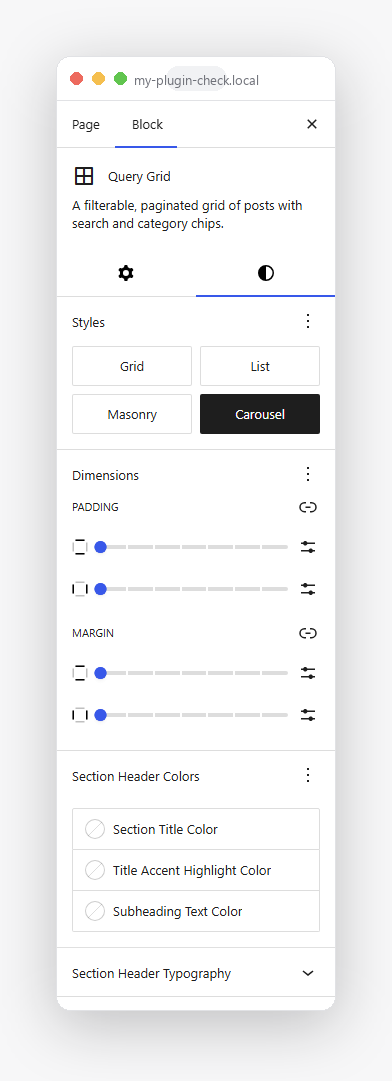
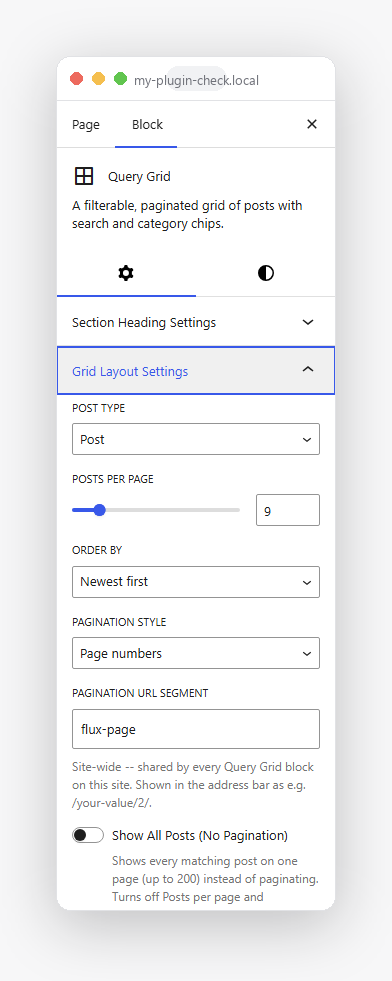
Fix missing UI in screenshots, add backend Settings panels for all 3 blocks
- screenshot-6 (Load more): height-crop was cutting off the Load More
  button itself, same root cause as the earlier pagination fix
- screenshot-7 (Magazine): enabled the Explore More button on the
  demo-magazine page so the feature is actually visible somewhere
- screenshot-15 (Query Grid editor panel) was capturing the Styles
  tab (layout picker) instead of the Settings tab (post type,
  pagination, columns) -- recaptured on the correct tab
- Added screenshot-16/17: Content Showcase's and Notification
  Banner's editor Settings panels, with a relevant panel expanded
  instead of a wall of collapsed accordion headers
- Documented 'works with any post type' directly under Query Grid
  and Content Showcase in both readme.txt and README.md, not just
  in the general 'Why this plugin?' blurb

diff --git a/README.md b/README.md
@@ -24,6 +24,7 @@ Three native Gutenberg blocks for showcasing content: a filterable **Query Grid*
 A filterable, paginated grid of posts.
 
 - Four layouts as native Style Variations: Grid, List, Masonry, Carousel.
+- Works with any post type -- Posts, Pages, or any custom post type registered on your site.
 - Optional search bar and category/taxonomy filter pills.
 - Optional sidebar layout for search + filters, either side.
 - Numbered pagination or a "Load more" button.
@@ -34,6 +35,7 @@ A filterable, paginated grid of posts.
 A magazine-style showcase of up to three posts, automatic or hand-picked.
 
 - Four layouts as native Style Variations: Magazine, Split, Overlay, Two-Thirds/One-Third.
+- Works with any post type -- Posts, Pages, or any custom post type registered on your site.
 - Automatic mode (latest posts, optionally filtered) or manual mode (hand-pick each slot).
 - Interactive image hotspots -- clickable pins with their own popover, title, text, and link.
 - Optional "Explore More" CTA button.
@@ -56,13 +58,13 @@ A dismissible announcement bar or alert box.
 
 | List | Sidebar filters | Load more |
 |---|---|---|
-| ![Query Grid -- List style](assets/screenshot-4.png) | ![Query Grid -- Sidebar layout](assets/screenshot-5.png) | ![Query Grid -- Load more pagination](assets/screenshot-6.png) |
+| ![Query Grid -- List style](assets/screenshot-4.png) | ![Query Grid -- Sidebar layout](assets/screenshot-5.png) | ![Query Grid -- Load more button](assets/screenshot-6.png) |
 
 ### Content Showcase
 
-| Magazine | Split | Overlay |
+| Magazine, with Explore More button | Split | Overlay |
 |---|---|---|
-| ![Content Showcase -- Magazine layout](assets/screenshot-7.png) | ![Content Showcase -- Split layout](assets/screenshot-8.png) | ![Content Showcase -- Overlay layout](assets/screenshot-9.png) |
+| ![Content Showcase -- Magazine layout with Explore More button](assets/screenshot-7.png) | ![Content Showcase -- Split layout](assets/screenshot-8.png) | ![Content Showcase -- Overlay layout](assets/screenshot-9.png) |
 
 | Two-Thirds | Image hotspot popover |
 |---|---|
@@ -76,7 +78,9 @@ A dismissible announcement bar or alert box.
 
 ### Block editor
 
-![Query Grid's block editor panel](assets/screenshot-15.png)
+| Query Grid Settings | Content Showcase Settings | Notification Banner Settings |
+|---|---|---|
+| ![Query Grid's block editor Settings panel](assets/screenshot-15.png) | ![Content Showcase's block editor Settings panel](assets/screenshot-16.png) | ![Notification Banner's block editor Settings panel](assets/screenshot-17.png) |
 
 ## Installation
 
